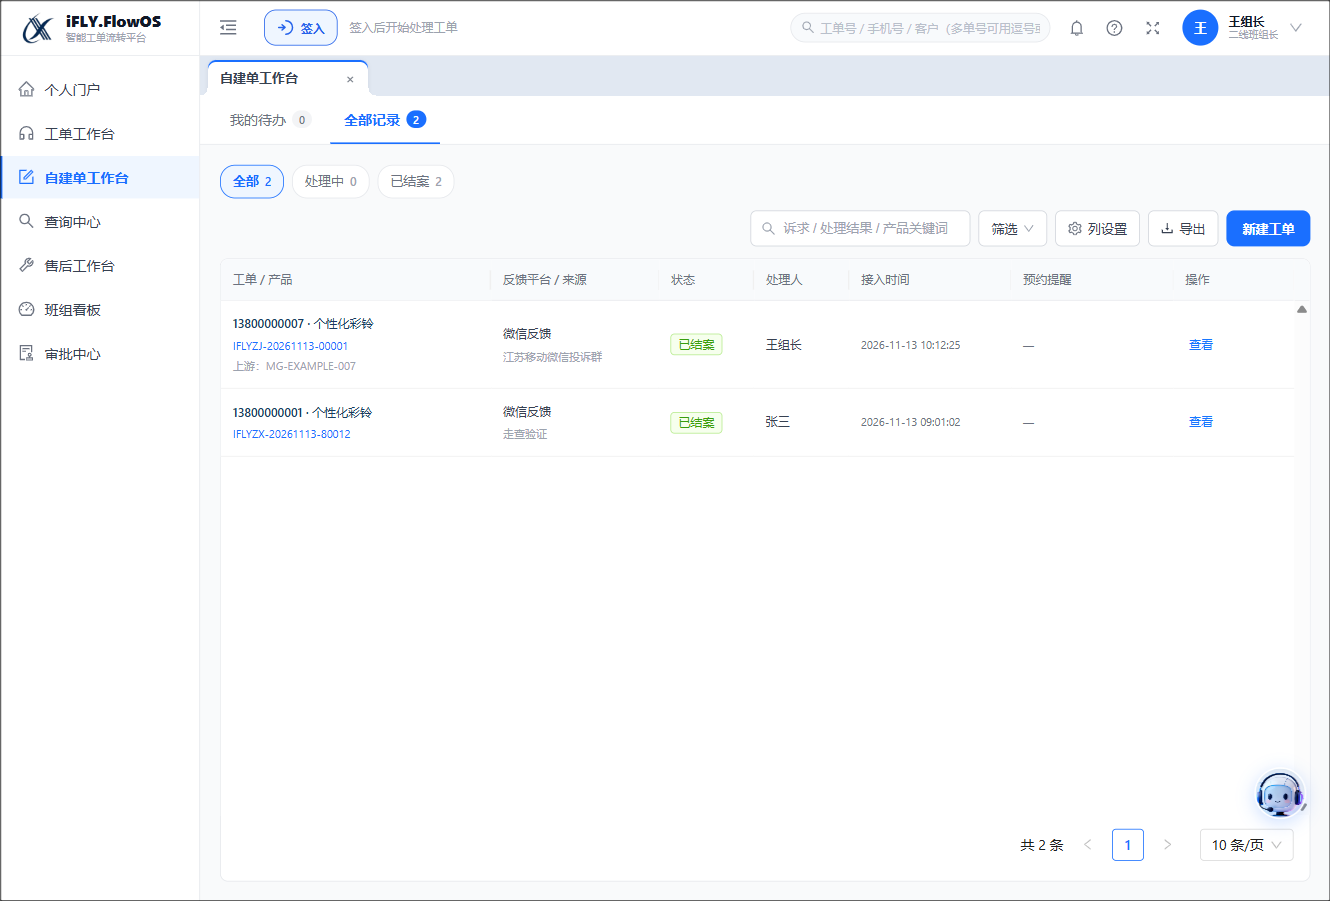
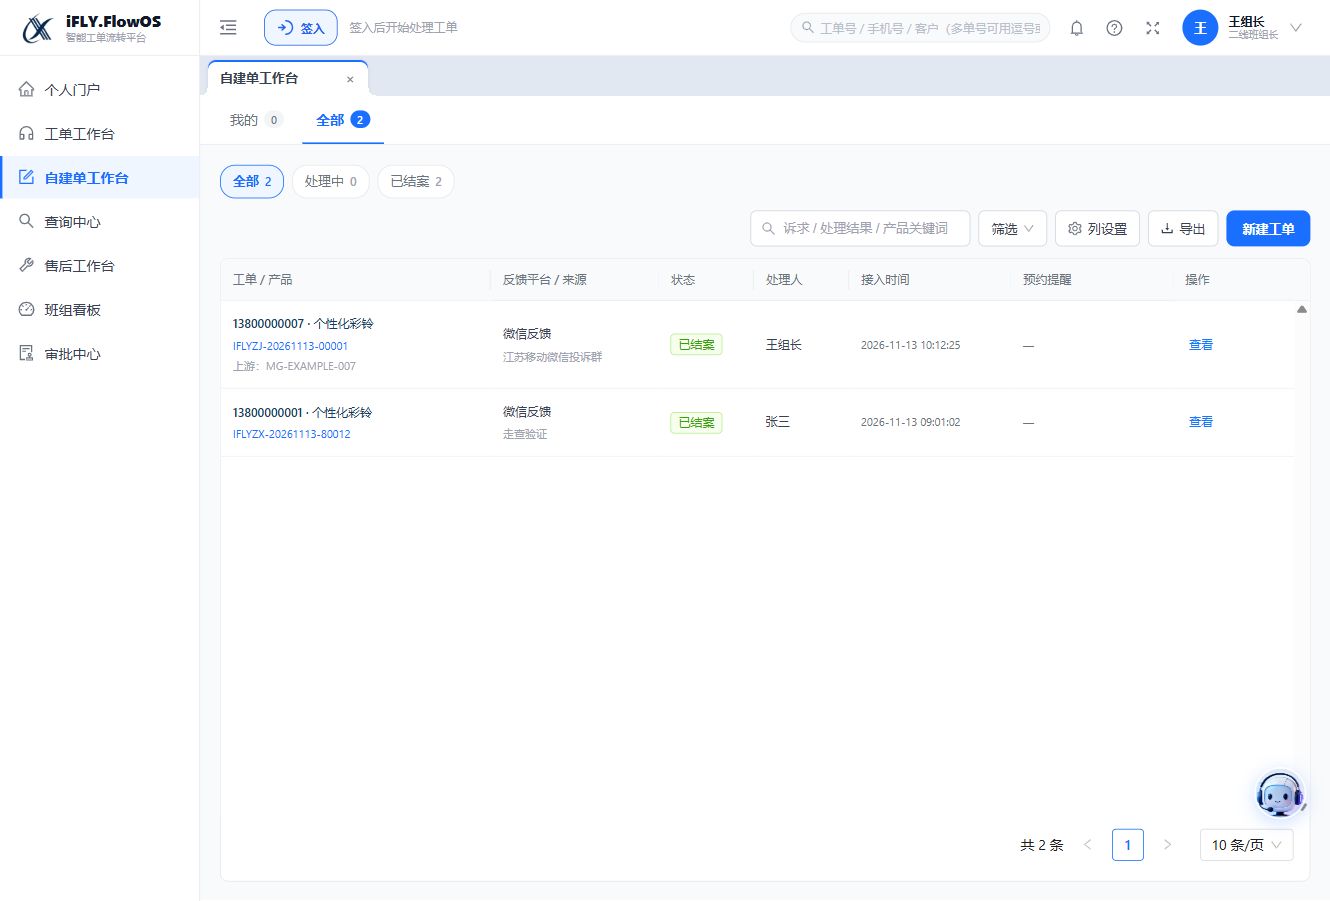
ui: shorten self-service scope tab labels

diff --git a/src/views/self-service/SelfServiceWorkbenchView.vue b/src/views/self-service/SelfServiceWorkbenchView.vue
@@ -36,7 +36,7 @@ onBeforeUnmount(() => tableObserver?.disconnect());
 const tableScrollY = computed(() => Math.max(160, tableHeight.value - 108));
 const visibleRecords = computed(() => store.records.filter((record) => store.canView(record)));
 const myRecords = computed(() => visibleRecords.value.filter((record) => record.status === '处理中' && record.handler === user.name));
-const scopeTabs = computed(() => [...(canCreate.value ? [{ key: 'mine', label: '我的待办' }] : []), { key: 'all', label: '全部记录' }]);
+const scopeTabs = computed(() => [...(canCreate.value ? [{ key: 'mine', label: '我的' }] : []), { key: 'all', label: '全部' }]);
 const scopedRecords = computed(() => scope.value === 'mine' ? myRecords.value : visibleRecords.value);
 const baseMatches = computed(() => filterRegistrationRecords(scopedRecords.value, { ...query, status: '' }));
 const rows = computed(() => filterRegistrationRecords(scopedRecords.value, query).sort((a, b) => b.updatedAt.localeCompare(a.updatedAt)));
@@ -188,7 +188,7 @@ function exportRows() {
             <template v-else-if="column.key === 'reminder'"><span class="time-text">{{ displayTime(record.reminder?.at) }}</span><small v-if="record.reminder" class="secondary-line">{{ record.reminder.triggeredAt ? '已提醒' : `提醒${record.reminder.recipient}` }}</small></template>
             <template v-else-if="column.key === 'action'"><div class="row-actions"><a-button type="link" size="small" @click="open(record)">{{ store.canEdit(record.no) && record.status === '处理中' ? '处理' : '查看' }}</a-button><a-button v-if="store.canTransfer(record.no)" type="link" size="small" @click="open(record, true)">调剂</a-button></div></template>
           </template>
-          <template #emptyText><div class="empty-records"><a-empty :description="scope === 'mine' ? '暂无我的待办自建单' : '暂无符合条件的自建单'" /></div></template>
+          <template #emptyText><div class="empty-records"><a-empty :description="scope === 'mine' ? '暂无我的自建单' : '暂无符合条件的自建单'" /></div></template>
         </a-table>
       </div>
     </div>

diff --git a/docs/design/wireless-music/acceptance.md b/docs/design/wireless-music/acceptance.md
@@ -9,16 +9,16 @@
 | 1. 独立入口 | 从个人门户点击左侧自建单工作台，再点新建工单 | 菜单与原工单工作台并列；直接打开本业务表单，进入 `/self-service/new`，无需在统一建单选表单 |
 | 2. 工作台及新建布局 | 先查看工作台，再进入新建页查看顶部、页头和联络区 | 工作台贴顶页签、状态快捷项、工具栏、折叠筛选、列设置及分页与原工单工作台同风格；新建左来源时限、右完整产品号码，无旧三卡、客户档案或归属卡，尚无单号和建单信息 |
 | 3. 最小登记 | 仅填演示业务号码，如 `13800000001`，创建并处理 | 生成 `IFLYZJ` 开头的独立单号，处理中、处理人为张三；进入 `/self-service/:ticketNo`，刷新可恢复 |
-| 4. 保存及列表 | 填来源、产品、描述和处理结果并保存，返回自建单工作台 | 同一单内容保留，出现在我的待办和有权查看的全部记录中；业务订购时间可留空，缺业务线映射可手选 |
+| 4. 保存及列表 | 填来源、产品、描述和处理结果并保存，返回自建单工作台 | 同一单内容保留，出现在“我的”和有权查看的“全部”列表中；业务订购时间可留空，缺业务线映射可手选 |
 | 5. 提醒与调剂 | 设置5分钟后提醒，调剂给王组长 | 即时变更处理人，无接收确认；提醒保留原时间并改提醒王组长；张三业务内容只读 |
 | 6. 接手与到期 | 切至王组长，打开同一单，切到平台其他页面等到期 | 王组长可编辑；跨页弹出提醒，点击打开本模块正确工单 |
 | 7. 附件 | 两人分别补一份附件，再切回王组长 | 同组可上传，只能删除本人文件，已结案后规则相同 |
 | 8. 结案 | 缺项时点结案，再补齐后重试，业务订购时间留空 | 缺项提示且不结案；补齐后同一单变为已结案，不可调剂，待提醒取消 |
 | 9. 修订 | 点击修订记录，修改结果并保存，查看履历 | 保持已结案，原结案及回复时间不变，留存修改人时间及前后值 |
-| 10. 独立查询导出 | 在全部记录分别按业务号码、工单编号、运营商、处理组／人、来源、渠道明细和模糊内容查询；加入产品、省份、问题分类等可选条件，切换创建／接入／回复时间并设置到秒的区间后导出 | 每项条件生效，时间按对应字段精确匹配；列表、计数、分页和明细一致，近三个月仍按创建时间限制导出 |
+| 10. 独立查询导出 | 在全部分别按业务号码、工单编号、运营商、处理组／人、来源、渠道明细和模糊内容查询；加入产品、省份、问题分类等可选条件，切换创建／接入／回复时间并设置到秒的区间后导出 | 每项条件生效，时间按对应字段精确匹配；列表、计数、分页和明细一致，近三个月仍按创建时间限制导出 |
 | 11. 原系统隔离 | 记住本单号码，打开原工单工作台和查询中心检索，再查看普通工单 | 自建单不混入原列表、搜索或咨询计数；原工作台新建不提供无线自建单表单，原普通工单正常办理 |
 
-提醒必须在结案前走查，提前结案会正常取消尚未触发的提醒。我的待办只包含本人未结案单；已转交或已结案记录从全部记录按权限查询。
+提醒必须在结案前走查，提前结案会正常取消尚未触发的提醒。“我的”只包含本人未结案单；已转交或已结案记录从“全部”按权限查询。
 
 ## 补充链路
 

diff --git a/docs/design/wireless-music/PRD.md b/docs/design/wireless-music/PRD.md
@@ -14,7 +14,7 @@
 
 ### 2.1 工作台与列表
 
-左侧菜单在“工单工作台”之后新增“自建单工作台”。工作台沿用现有工单工作台的视觉和交互结构：贴顶范围页签、状态快捷项、列表工具栏、可展开／收起的筛选区、列设置、表格和分页。进入后展示无线音乐自建单列表，提供“我的待办”和“全部记录”范围。“我的待办”显示当前处理人为本人且未结案的单据；“全部记录”按当前账号有权查看的记录展示，包含已结案记录。
+左侧菜单在“工单工作台”之后新增“自建单工作台”。工作台沿用现有工单工作台的视觉和交互结构：贴顶范围页签、状态快捷项、列表工具栏、可展开／收起的筛选区、列设置、表格和分页。进入后展示无线音乐自建单列表，提供“我的”和“全部”范围。“我的”显示当前处理人为本人且未结案的单据；“全部”按当前账号有权查看的记录展示，包含已结案记录。
 
 状态筛选为全部、处理中、已结案。工具栏提供新建、查询、筛选展开／收起、列设置及导出操作。业务号码、工单编号、运营商、处理组、处理人、来源和渠道明细分别检索，模糊内容用于检索描述及处理结果等文本，不将各业务字段合并成一个输入框。来源按反馈平台和具体来源联动。时间条件可选择创建、接入或回复时间，支持精确到时分秒的起止区间。产品、省份和问题分类等通过可选筛选加入；各条件共同作用于当前列表范围。
 

diff --git a/docs/design/wireless-music/technical-design.md b/docs/design/wireless-music/technical-design.md
@@ -63,7 +63,7 @@
 
 ## 五、列表、查询及导出
 
-列表直接从有权查看的登记记录取数，提供我的待办与全部记录；我的待办仅当前处理人且未结案。页面复用既有工作台的视觉和控件模式，包括贴顶范围页签、状态快捷项、工具栏、折叠筛选区、可选筛选、列设置和分页；复用UI不引入原工单取数、动作及统计。
+列表直接从有权查看的登记记录取数，提供“我的”和“全部”范围；“我的”仅当前处理人且未结案。页面复用既有工作台的视觉和控件模式，包括贴顶范围页签、状态快捷项、工具栏、折叠筛选区、可选筛选、列设置和分页；复用UI不引入原工单取数、动作及统计。
 
 `RegistrationListQuery` 分别管理业务号码、工单编号、运营商、处理组、处理人、来源、渠道明细和模糊文本等条件。产品、省份、问题分类等通过可选筛选配置展示。来源使用反馈平台和具体来源的父子关系，来源和产品可查询停用及历史值，不能以400目录替代。
 

diff --git a/docs/design/wireless-music/review.md b/docs/design/wireless-music/review.md
@@ -42,7 +42,7 @@ node scripts/test-registration-list-query.mjs
 
 | 问题 | 复现及修正要求 |
 | --- | --- |
-| 旧查询链接落入我的待办，隐藏已结案／已转交记录 | 带关键词的旧查询链接兼容至新工作台时，应进入全部记录；原手动查询继续遵循用户当前列表范围。此项已在代码中修正 |
+| 旧查询链接落入我的，隐藏已结案／已转交记录 | 带关键词的旧查询链接兼容至新工作台时，应进入全部；原手动查询继续遵循用户当前列表范围。此项已在代码中修正 |
 | 缓存详情同时弹出多个调剂窗口 | 独立浏览器复现3个调剂窗口后，已修复详情绑定自身单号、仅激活实例响应、停用关闭窗口。复测A→B→A调剂仅1个窗口，离开后无残留；确认调剂仅修改A，B处理人不变 |
 | 移除可选筛选后仍存在隐藏条件 | 移除可选字段时同时清空对应查询值。独立浏览器验证选择省份后0条，移除该条件恢复2条且字段不再展示 |
 

diff --git a/docs/design/wireless-music/design.md b/docs/design/wireless-music/design.md
@@ -11,7 +11,7 @@
 | 层级 | 设计 |
 | --- | --- |
 | 平台菜单 | 工单工作台之后新增自建单工作台 |
-| 列表 | 贴顶我的待办／全部记录页签，全部／处理中／已结案快捷项；工具栏、折叠筛选、列设置、表格和分页与既有工作台风格一致 |
+| 列表 | 贴顶我的／全部页签，全部／处理中／已结案快捷项；工具栏、折叠筛选、列设置、表格和分页与既有工作台风格一致 |
 | 新建 | 从本工作台直接新建，无需在统一建单选择表单；仅业务号码创建必填 |
 | 处理 | 本模块详情页，保存、组内调剂、提醒、附件及结案；终态通过修订保存 |
 | 查询导出 | 本工作台内完成，不混入原查询中心，列表计数及导出使用同一数据范围 |
